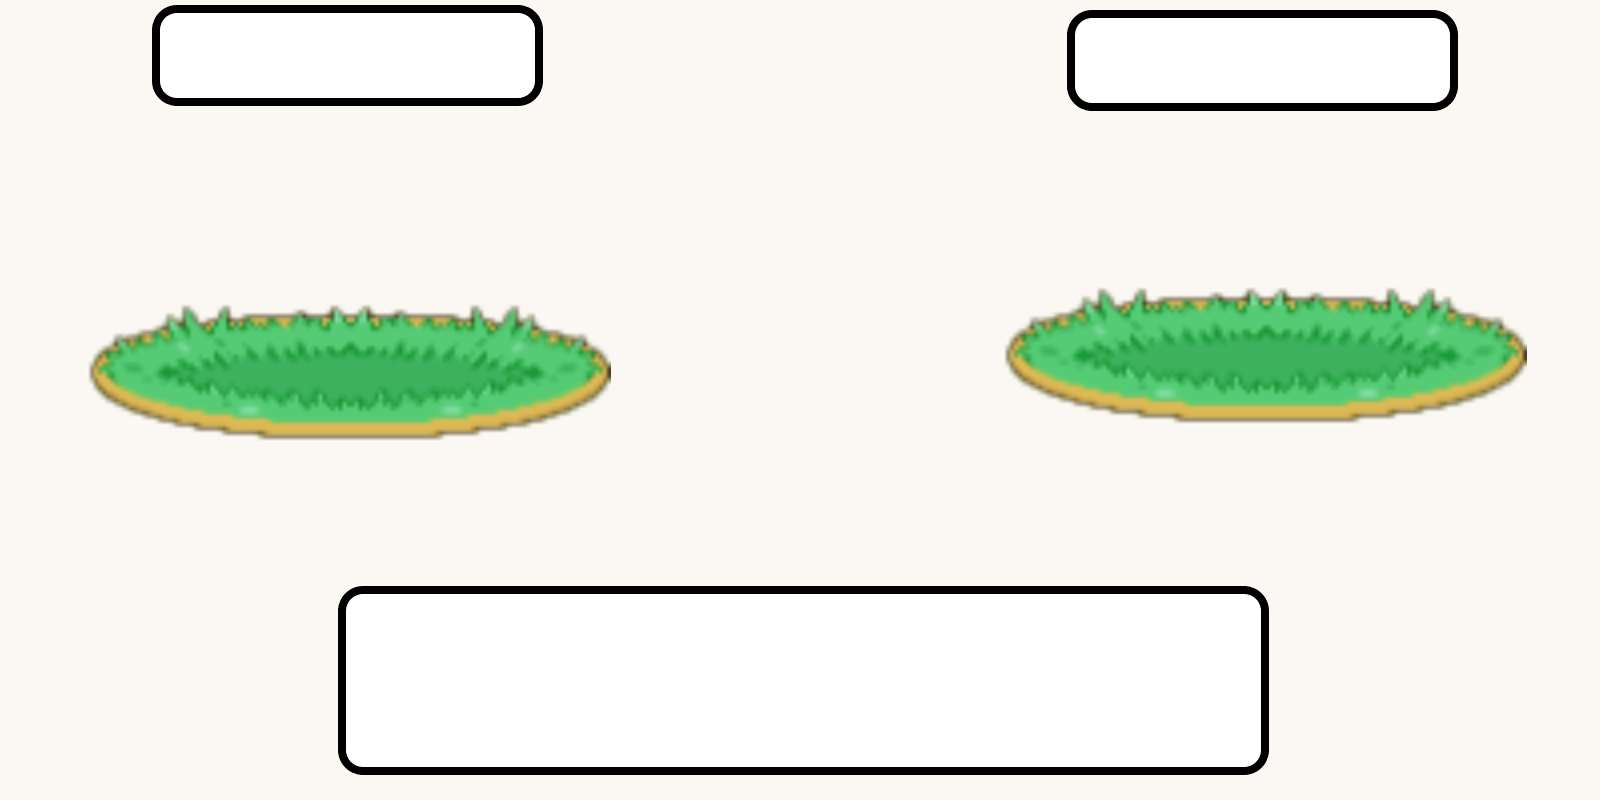
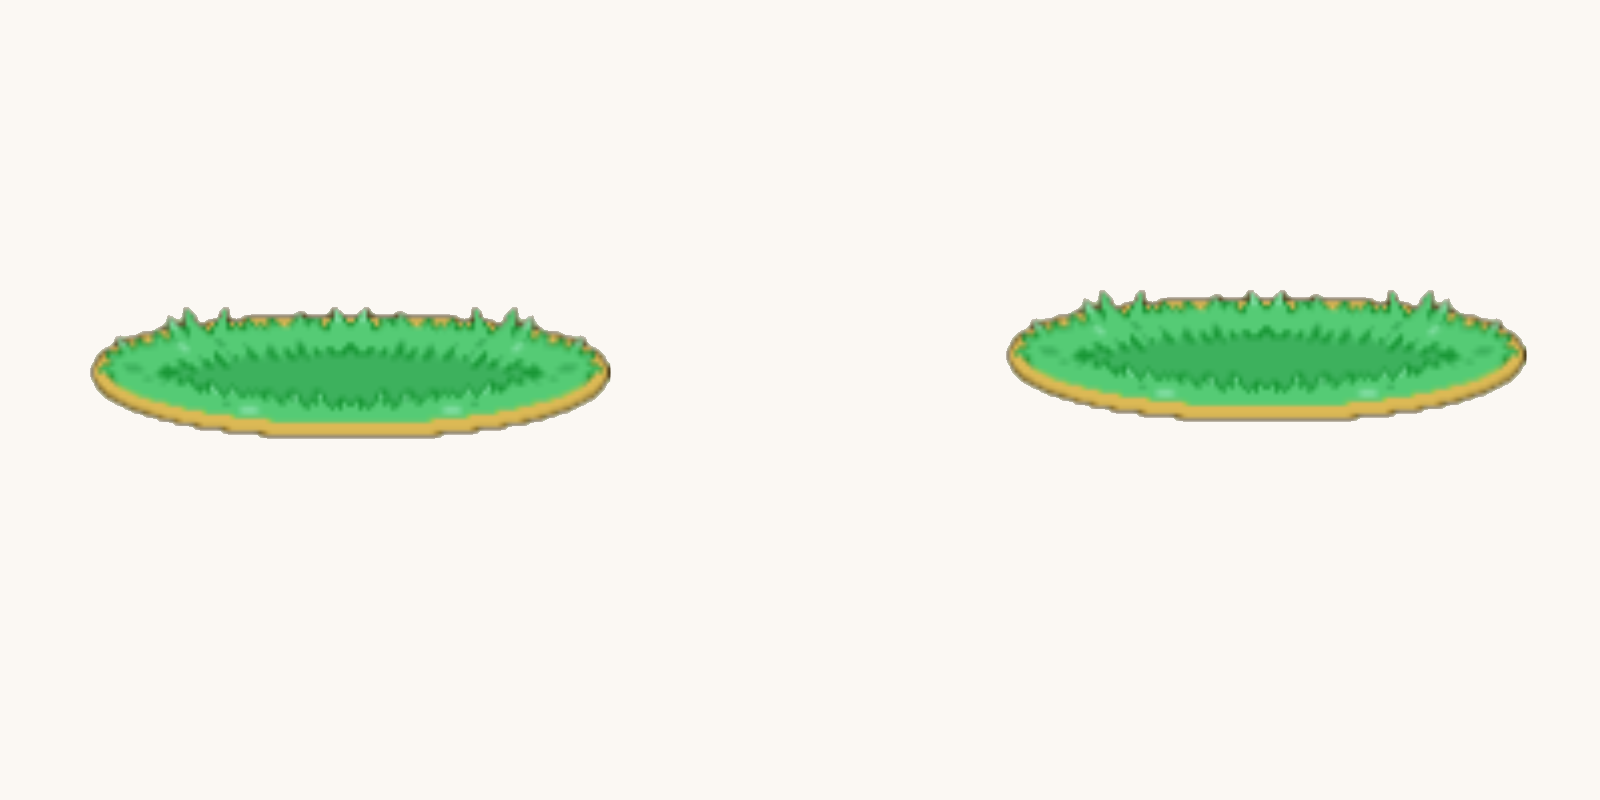
small adjustment in responsivity

diff --git a/res/style/style.css b/res/style/style.css
@@ -6,27 +6,14 @@
 
 canvas {
   padding: 0;
-  height: auto; 
-  width: 80%; 
+  height: auto;
+  width: 80%;
   margin: auto;
-  display: block;
-  position: absolute;
-  top: 50%;
-  left: 50%;
-  transform: translate(-50%, -50%);
-}
-
-#battleground {
-  position: absolute;
-  top: 50%;
-  left: 50%;
-  transform: translate(-50%, -50%);
-  background-image: url("../img/backgrounds/battleBackground.png");
-  background-size: contain;
-  background-repeat: no-repeat;
-  height: 80%; 
-  width: 80%; 
   display: none;
+  position: absolute;
+  top: 50%;
+  left: 50%;
+  transform: translate(-50%, -50%);
 }
 
 button {
@@ -35,53 +22,85 @@ button {
   border: 10px solid black;
   border-radius: 2rem;
   cursor: pointer;
-  transition: .7s;
+  transition: 0.7s;
 }
 
 button:hover {
   background-color: white;
 }
 
-#back {
+#battleground {
   position: absolute;
-  top: 80%;
-  left: 68%;
+  top: 50%;
+  left: 50%;
+  transform: translate(-50%, -50%);
+  background-color: antiquewhite;
+  height: 80%;
+  width: 80%;
+  display: block;
 }
 
-#tackle {
-  position: absolute;
-  top: 80%;
-  left: 25%;
+.myPokemonGround, .enemyPokemonGround {
+  background-image: url("../img/backgrounds/battleField.png");
+  background-size: contain;
+  background-repeat: no-repeat;
+  z-index: -1;
 }
 
-#specialAttack {
+.myPokemonGround {
   position: absolute;
-  top: 80%;
-  left: 44%;
+  height: 150px;
+  width: 400px;
+  top: 40%;
+  left: 13%;
 }
 
-#myPokemonName {
+.enemyPokemonGround {
   position: absolute;
-  top: 6%;
-  left: 15%;
+  height: 150px;
+  width: 400px;
+  top: 40%;
+  right: 13%;
 }
 
-#myPokemonHp {
+.options {
   position: absolute;
-  top: 6%;
-  left: 30%;
+  bottom: 15px;
+  left: 50%;
+  transform: translateX(-50%);
+  border: 5px solid black;
+  border-radius: 2rem;
+  width: 50%;
+  display: flex;
+  justify-content: space-evenly;
+  padding: 1.25rem;
+  background-color: white;
 }
 
-#enemyPokemonName {
+.myPokemon {
   position: absolute;
-  top: 6%;
-  left: 70%;
+  top: 15px;
+  left: 20px;
+  border: 5px solid black;
+  border-radius: 2rem;
+  width: 20%;
+  display: flex;
+  justify-content: space-evenly;
+  padding: 1.25rem;
+  background-color: white;
 }
 
-#enemyPokemonHp {
+.enemyPokemon {
   position: absolute;
-  top: 6%;
-  left: 85%;
+  top: 15px;
+  right: 20px;
+  border: 5px solid black;
+  border-radius: 2rem;
+  width: 20%;
+  display: flex;
+  justify-content: space-evenly;
+  padding: 1.25rem;
+  background-color: white;
 }
 
 #enemyPokemonImage {
@@ -93,7 +112,7 @@ button:hover {
   width: 200px;
   position: absolute;
   top: 20%;
-  left: 74%;
+  right: 20%;
 }
 
 #myPokemonImage {
@@ -104,6 +123,6 @@ button:hover {
   height: 200px;
   width: 200px;
   position: absolute;
-  top: 22%;
-  left: 17%;
+  top: 20%;
+  left: 20%;
 }

diff --git a/index.html b/index.html
@@ -9,15 +9,23 @@
   </head>
   <body>
     <div id="battleground">
-      <button id="back">LEAVE</button>
-      <button id="tackle">TACKLE</button>
-      <button id="specialAttack">SPECIAL ATTACK</button>
-      <div id="myPokemonName">PIKACHU</div>
-      <div id="myPokemonHp">20 HP</div>
-      <div id="enemyPokemonName">CHARIZARD</div>
-      <div id="enemyPokemonHp">20 HP</div>
+      <div class="options">
+        <button id="back">LEAVE</button>
+        <button id="tackle">TACKLE</button>
+        <button id="specialAttack">SPECIAL ATTACK</button>
+      </div>
+      <div class="myPokemon">
+        <div id="myPokemonName">PIKACHU</div>
+        <div id="myPokemonHp">20 HP</div>
+      </div>
+      <div class="enemyPokemon">
+        <div id="enemyPokemonName">CHARIZARD</div>
+        <div id="enemyPokemonHp">20 HP</div>
+      </div>
       <div id="myPokemonImage"></div>
+      <div class="myPokemonGround"></div>
       <div id="enemyPokemonImage"></div>
+      <div class="enemyPokemonGround"></div>
     </div>
     <canvas id="vancas" width="1600" height="800"></canvas>
     <script type="module" src="./res/js/main.js"></script>
